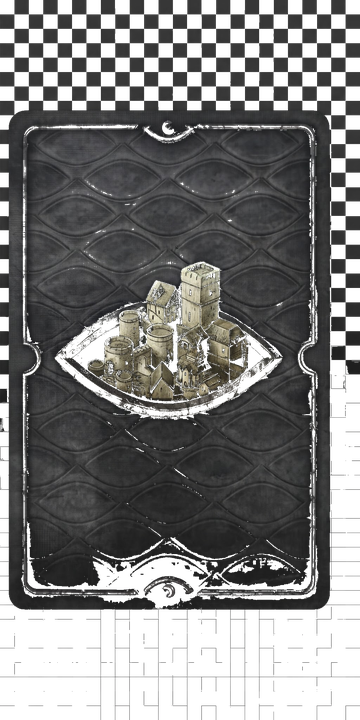
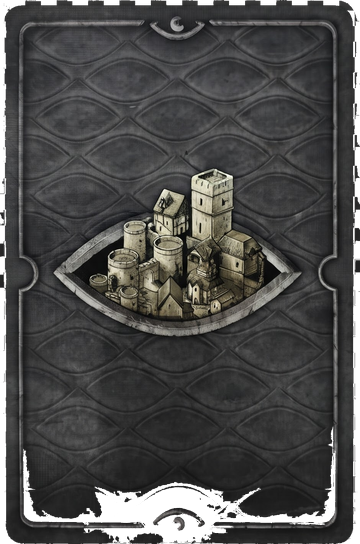
Eksploracja: tylko 2 karty, bez ściągi i bez domyślnego zaznaczenia (#9)
Usunięty długi tekst Fazy II / znaki pola. Karty Gemini z czystym tłem,
większy odstęp, klik tylko w kartę.

diff --git a/wiedzmin-helper/js/quests.js b/wiedzmin-helper/js/quests.js
@@ -23,25 +23,28 @@ export function newQuestId() {
 }
 
 /** Wybór talii eksploracji: miasto / dzikie ostępy — karty Gemini. */
-export function exploreDeckChooserHtml({ selected } = {}) {
+export function exploreDeckChooserHtml({ selected = null } = {}) {
   return `
-    <div class="guide-box guide-explore-choice">
-      <p class="step-kicker" style="margin:0">Faza II — eksploracja</p>
-      <h3 style="margin:0.25rem 0 0.4rem">Co eksplorujesz?</h3>
-      <p class="lead" style="margin:0">Wybierz talię: <strong>miasto</strong> albo <strong>dzikie ostępy</strong>.</p>
+    <div class="explore-chooser">
+      <h2 class="explore-chooser-title">Co eksplorujesz?</h2>
+      <p class="lead" style="margin:0">Kliknij kartę: <strong>dzikie ostępy</strong> albo <strong>miasto</strong>.</p>
       <div class="explore-card-grid" role="group" aria-label="Talia eksploracji">
-        <button type="button" class="explore-card ${selected === "wilds" ? "active" : ""}" data-explore-deck="wilds" aria-pressed="${
-          selected === "wilds" ? "true" : "false"
-        }">
-          <img src="./img/explore/wilds.png" alt="" width="180" height="360" decoding="async" />
-          <span class="explore-card-label"><strong>Dzikie ostępy</strong><span>Zielona talia</span></span>
-        </button>
-        <button type="button" class="explore-card ${selected === "city" ? "active" : ""}" data-explore-deck="city" aria-pressed="${
-          selected === "city" ? "true" : "false"
-        }">
-          <img src="./img/explore/city.png" alt="" width="180" height="360" decoding="async" />
-          <span class="explore-card-label"><strong>Miasto</strong><span>Szara talia</span></span>
-        </button>
+        <div class="explore-card-slot">
+          <button type="button" class="explore-card ${selected === "wilds" ? "active" : ""}" data-explore-deck="wilds" aria-label="Dzikie ostępy" aria-pressed="${
+            selected === "wilds" ? "true" : "false"
+          }">
+            <img src="./img/explore/wilds.png" alt="" width="180" height="272" decoding="async" draggable="false" />
+          </button>
+          <span class="explore-card-label"><strong>Dzikie ostępy</strong></span>
+        </div>
+        <div class="explore-card-slot">
+          <button type="button" class="explore-card ${selected === "city" ? "active" : ""}" data-explore-deck="city" aria-label="Miasto" aria-pressed="${
+            selected === "city" ? "true" : "false"
+          }">
+            <img src="./img/explore/city.png" alt="" width="180" height="272" decoding="async" draggable="false" />
+          </button>
+          <span class="explore-card-label"><strong>Miasto</strong></span>
+        </div>
       </div>
     </div>
   `;

diff --git a/wiedzmin-helper/css/styles.css b/wiedzmin-helper/css/styles.css
@@ -356,37 +356,58 @@ h3 {
   margin: 1rem 0 0.25rem;
 }
 
-.explore-card-grid {
-  display: grid;
-  grid-template-columns: repeat(2, minmax(0, 1fr));
-  gap: 1rem;
-  margin: 0.85rem 0 0.25rem;
-  align-items: end;
+.explore-chooser {
+  margin: 0.5rem 0 0.25rem;
 }
 
-.explore-card {
+.explore-chooser-title {
+  margin: 0 0 0.35rem;
+  font-size: 1.45rem;
+}
+
+.explore-card-grid {
+  display: grid;
+  grid-template-columns: repeat(2, max-content);
+  justify-content: center;
+  column-gap: 2.25rem;
+  row-gap: 0.65rem;
+  margin: 1rem 0 0.25rem;
+  align-items: start;
+}
+
+.explore-card-slot {
   display: flex;
   flex-direction: column;
   align-items: center;
   gap: 0.55rem;
-  padding: 0.55rem 0.45rem 0.7rem;
-  border: 2px solid transparent;
-  border-radius: 14px;
+  width: max-content;
+}
+
+.explore-card {
+  display: block;
+  margin: 0;
+  padding: 0;
+  border: 3px solid transparent;
+  border-radius: 12px;
   background: transparent;
   cursor: pointer;
-  transition: border-color 0.15s ease, transform 0.15s ease, background 0.15s ease;
+  line-height: 0;
+  width: max-content;
+  transition: border-color 0.15s ease, transform 0.15s ease, box-shadow 0.15s ease;
 }
 
 .explore-card img {
   display: block;
-  width: min(100%, 11.5rem);
+  width: min(42vw, 11rem);
   height: auto;
   object-fit: contain;
+  pointer-events: none;
   filter: drop-shadow(0 8px 16px rgba(0, 0, 0, 0.28));
 }
 
 .explore-card-label {
   text-align: center;
+  pointer-events: none;
 }
 
 .explore-card-label strong {
@@ -395,27 +416,26 @@ h3 {
   font-size: 1.08rem;
 }
 
-.explore-card-label span {
-  display: block;
-  color: var(--ink-soft);
-  font-size: 0.92rem;
-  margin-top: 0.15rem;
+.explore-card:hover {
+  transform: translateY(-2px);
 }
 
-.explore-card:hover,
+.explore-card:focus-visible {
+  outline: 2px solid var(--brass);
+  outline-offset: 3px;
+}
+
 .explore-card.active {
   border-color: var(--brass);
-  background: rgba(184, 146, 62, 0.12);
-  transform: translateY(-2px);
+  box-shadow: 0 0 0 2px rgba(184, 146, 62, 0.35);
 }
 
 @media (max-width: 520px) {
   .explore-card-grid {
-    grid-template-columns: 1fr 1fr;
-    gap: 0.55rem;
+    column-gap: 1rem;
   }
   .explore-card img {
-    width: min(100%, 9.5rem);
+    width: min(40vw, 9rem);
   }
 }
 

diff --git a/wiedzmin-helper/js/app.js b/wiedzmin-helper/js/app.js
@@ -40,7 +40,6 @@ import {
   moveCostChooserHtml,
   applyMoveCost,
   locationActionGuideHtml,
-  exploreGuideHtml,
   destinationPreviewHtml,
   mapLocPopupHtml,
 } from "./guide.js";
@@ -1681,13 +1680,11 @@ function renderTurn() {
   }
 
   if (screen === "explore") {
-    const here = locById(p.locationId);
+    // nic nie zaznaczone na starcie — dopiero klik w kartę
+    if (state.turn) state.turn.exploreDeck = null;
     turnShell(
-      "Eksploracja — wybór talii",
-      `
-        ${exploreDeckChooserHtml({ selected: state.turn.exploreDeck })}
-        ${exploreGuideHtml(here, solo)}
-      `
+      "Eksploracja",
+      exploreDeckChooserHtml({ selected: null })
     );
     appEl.querySelectorAll("[data-explore-deck]").forEach((btn) => {
       btn.addEventListener("click", () => {
